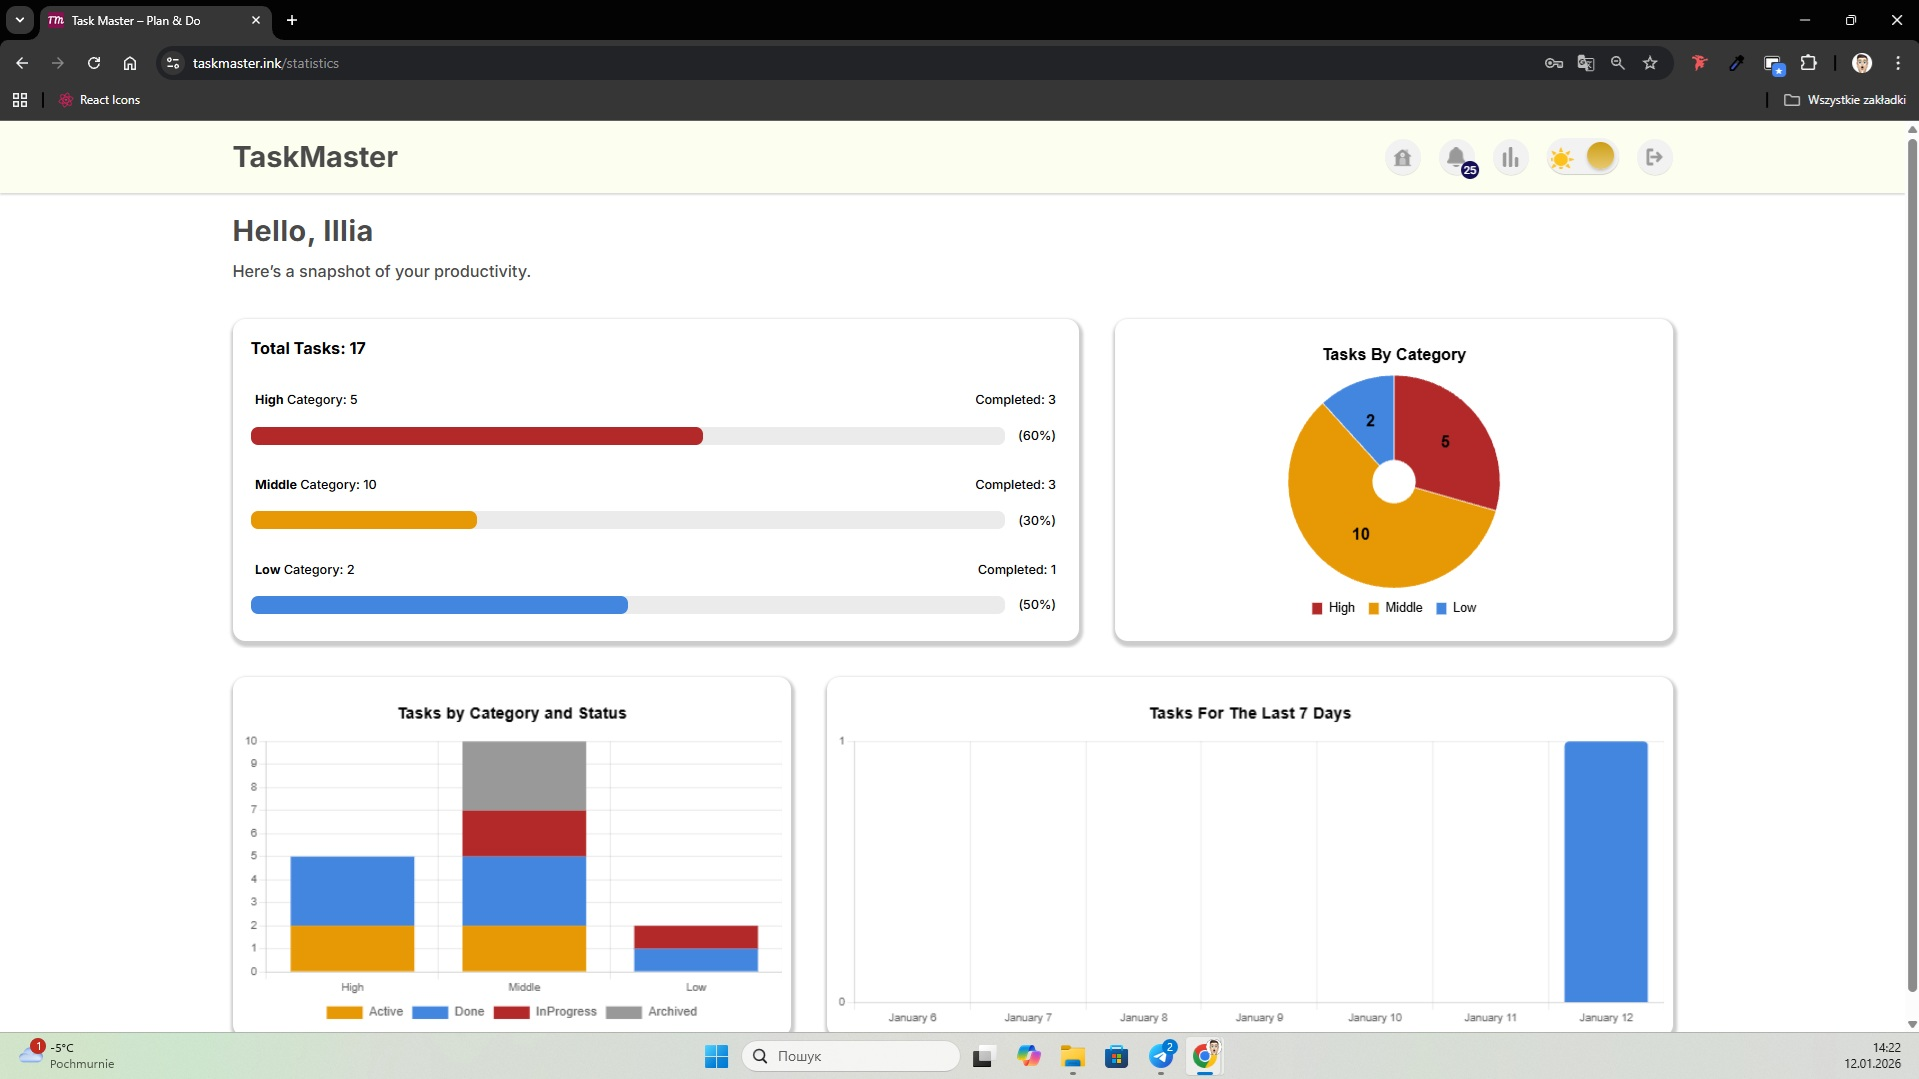
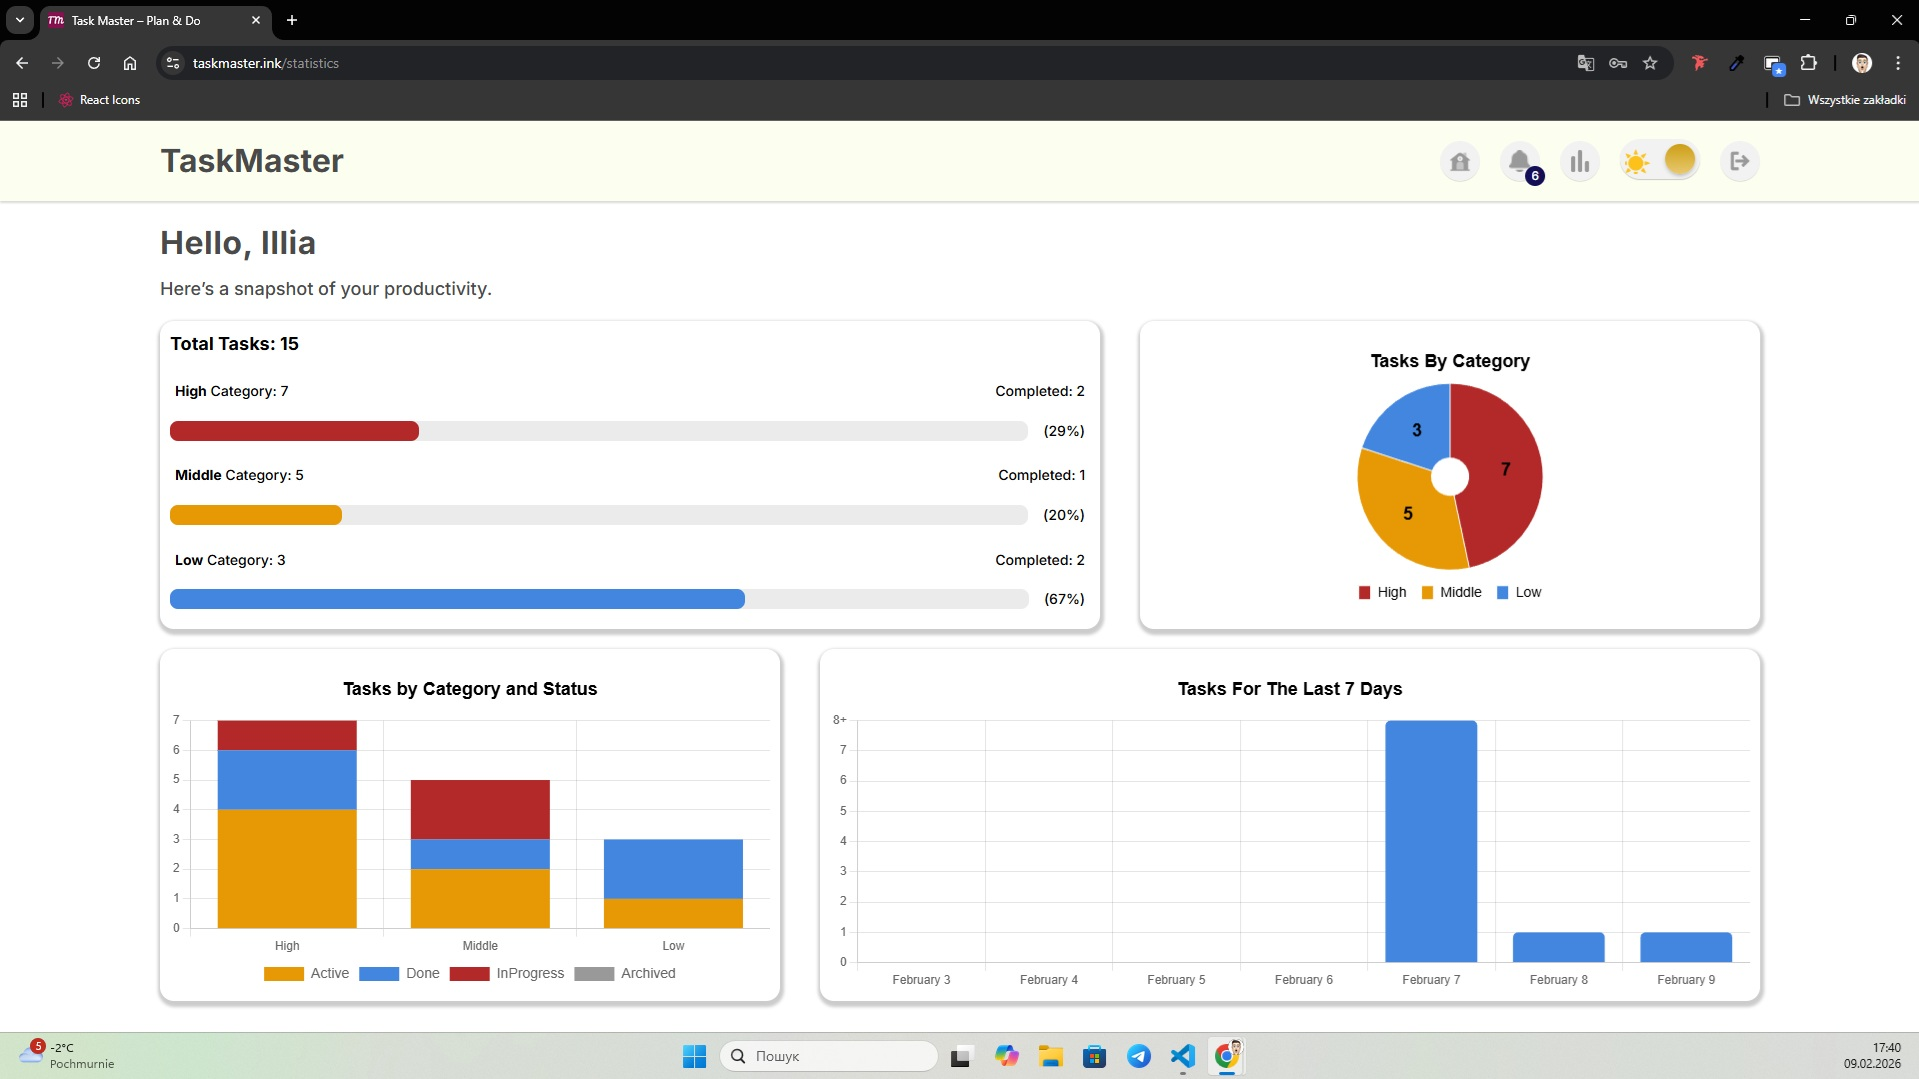
feat: add toast queue with multiple success notifications

diff --git a/src/components/Toasts/Toast/Toast.module.scss b/src/components/Toasts/Toast/Toast.module.scss
@@ -1,15 +1,11 @@
 @use '@styles/variables.scss' as v;
 @use '@styles/mixins.scss' as m;
 
-.toaster {
+.toast {
   padding: 2rem;
-  position: fixed;
-  bottom: 1rem;
-  left: 1rem;
-  z-index: 9999;
-
   display: flex;
   align-items: center;
+  justify-content: space-between;
   column-gap: 1rem;
 
   border: 1px solid #ccc;
@@ -17,11 +13,13 @@
   box-shadow: 0 4px 6px rgba(0, 0, 0, 0.1);
   background-color: var(--bg-color);
 
-  transform: translateX(-100px) translateY(0);
+  transform: translateX(-100px);
   opacity: 0;
   transition:
-    transform 0.3s ease,
-    opacity 0.3s ease;
+    transform 0.4s ease,
+    opacity 0.4s ease,
+    max-height 0.4s ease,
+    margin-bottom 0.4s ease;
 
   &__icon {
     color: var(--accent-color);
@@ -34,11 +32,14 @@
     color: var(--text-color);
     transition: color 0.6s ease;
   }
-}
 
-.toaster.show {
-  transform: translateX(0) translateY(0);
-  opacity: 1;
+  &.show {
+    transform: translateX(0);
+    opacity: 1;
+
+    max-height: 200px;
+    margin-bottom: 10px;
+  }
 }
 
 @media screen and (max-width: 768.1px) {

diff --git a/src/components/Toasts/Toast/Toast.jsx b/src/components/Toasts/Toast/Toast.jsx
@@ -1,0 +1,31 @@
+import React, { useEffect, useState } from 'react'
+import { useDispatch } from 'react-redux'
+import { clearSuccess } from '@store/successSlice'
+import { FaCheckCircle } from 'react-icons/fa'
+import * as styles from './Toast.module.scss'
+
+const Toast = ({ id, message }) => {
+  const dispatch = useDispatch()
+  const [visible, setVisible] = useState(false)
+
+  useEffect(() => {
+    setVisible(true)
+    const timer = setTimeout(() => {
+      setVisible(false)
+      setTimeout(() => dispatch(clearSuccess(id)), 400)
+    }, 3000)
+
+    return () => clearTimeout(timer)
+  }, [id, dispatch])
+
+  if (!message) return null
+
+  return (
+    <div className={`${styles.toast} ${visible ? styles.show : ''}`}>
+      <p className={styles.toast__text}>{message}</p>
+      <FaCheckCircle className={styles.toast__icon} />
+    </div>
+  )
+}
+
+export default Toast

diff --git a/src/store/successSlice.js b/src/store/successSlice.js
@@ -1,16 +1,24 @@
-import { createSlice } from '@reduxjs/toolkit'
+import { createSlice, nanoid } from '@reduxjs/toolkit'
 
 const successSlice = createSlice({
   name: 'success',
   initialState: {
-    message: null,
+    items: [],
   },
   reducers: {
-    showSuccess: (state, action) => {
-      state.message = action.payload
+    showSuccess: {
+      reducer: (state, action) => {
+        state.items.push(action.payload)
+      },
+      prepare: (message) => ({
+        payload: {
+          id: nanoid(),
+          message,
+        },
+      }),
     },
-    clearSuccess: (state) => {
-      state.message = null
+    clearSuccess: (state, action) => {
+      state.items = state.items.filter((toast) => toast.id !== action.payload)
     },
   },
 })

diff --git a/src/App.jsx b/src/App.jsx
@@ -2,7 +2,7 @@ import React, { Suspense, lazy, useEffect } from 'react'
 import { BrowserRouter as Router, Route, Routes } from 'react-router-dom'
 import { useSelector } from 'react-redux'
 import ProtectedPath from './services/ProtectedPath'
-import { Loader, GlobalErrorModal, Toaster } from './components'
+import { Loader, GlobalErrorModal, ToastsContainer } from './components'
 
 const Login = lazy(() => import('./pages/Auth/Login'))
 const UpdatePassword = lazy(() => import('./pages/Auth/UpdatePassword'))
@@ -61,7 +61,7 @@ function App() {
           </Route>
         </Routes>
         <GlobalErrorModal />
-        <Toaster />
+        <ToastsContainer />
         {isLoaderShown && <Loader />}
       </Router>
     </Suspense>

diff --git a/src/components/Toasts/ToastContainer/ToastsContainer.jsx b/src/components/Toasts/ToastContainer/ToastsContainer.jsx
@@ -1,0 +1,22 @@
+import React from 'react'
+import { useSelector } from 'react-redux'
+import ReactDOM from 'react-dom'
+import Toast from '../Toast/Toast'
+import * as styles from './ToastsContainer.module.scss'
+
+const ToastsContainer = () => {
+  const toasts = useSelector((state) => state.success.items)
+
+  if (!toasts.length) return null
+
+  return ReactDOM.createPortal(
+    <div className={styles.toasts__container}>
+      {toasts.map((toast) => (
+        <Toast key={toast.id} {...toast} />
+      ))}
+    </div>,
+    document.body,
+  )
+}
+
+export default ToastsContainer

diff --git a/src/pages/Statistics/components/BarChart/BarChart.jsx b/src/pages/Statistics/components/BarChart/BarChart.jsx
@@ -28,7 +28,7 @@ const BarChart = ({ tasks }) => {
 
   const counts = last7DaysISO.map((date) => {
     const count = tasks.filter((task) => task.createdAt.startsWith(date)).length
-    return count > 8 ? 8 : count
+    return count > 10 ? 10 : count
   })
 
   const tooltipCounts = last7DaysISO.map((date) => {
@@ -88,7 +88,7 @@ const BarChart = ({ tasks }) => {
         ticks: {
           stepSize: 1,
           callback: function (value) {
-            return value === 8 ? '8+' : value
+            return value === 10 ? '10+' : value
           },
         },
       },

diff --git a/src/components/index.js b/src/components/index.js
@@ -7,4 +7,5 @@ export { default as Loader } from './Loader/Loader'
 export { default as AccessModal } from './Modals/AcessModal/AcessModal'
 export { default as GlobalErrorModal } from './Modals/GlobalErrorModal/GlobalErrorModal'
 export { default as ModalBase } from './Modals/ModalBase/ModalBase'
-export { default as Toaster } from './Toaster/Toaster'
+export { default as Toast } from './Toasts/Toast/Toast'
+export { default as ToastsContainer } from './Toasts/ToastContainer/ToastsContainer'

diff --git a/src/pages/Notifications/components/NotificationsList/NotificationList.module.scss b/src/pages/Notifications/components/NotificationsList/NotificationList.module.scss
@@ -2,7 +2,8 @@
 @use '@styles/mixins.scss' as m;
 
 .notificationList {
-  padding: 4rem 0;
+  padding: 0.5rem 0;
+  margin-top: 4rem;
   width: 100%;
   flex: 1;
   display: flex;

diff --git a/src/components/Toasts/ToastContainer/ToastsContainer.module.scss b/src/components/Toasts/ToastContainer/ToastsContainer.module.scss
@@ -1,0 +1,9 @@
+.toasts__container {
+  position: fixed;
+  bottom: 1rem;
+  left: 1rem;
+  display: flex;
+  flex-direction: column;
+  gap: 10px;
+  z-index: 9999;
+}

diff --git a/src/components/Modals/ErrorModal/ErrorModal.module.scss b/src/components/Modals/ErrorModal/ErrorModal.module.scss
@@ -60,9 +60,4 @@
   .title {
     font-size: 1.6rem;
   }
-
-  .text {
-    font-size: 0.9rem;
-    margin: 1rem 0 1.5rem 0;
-  }
 }
